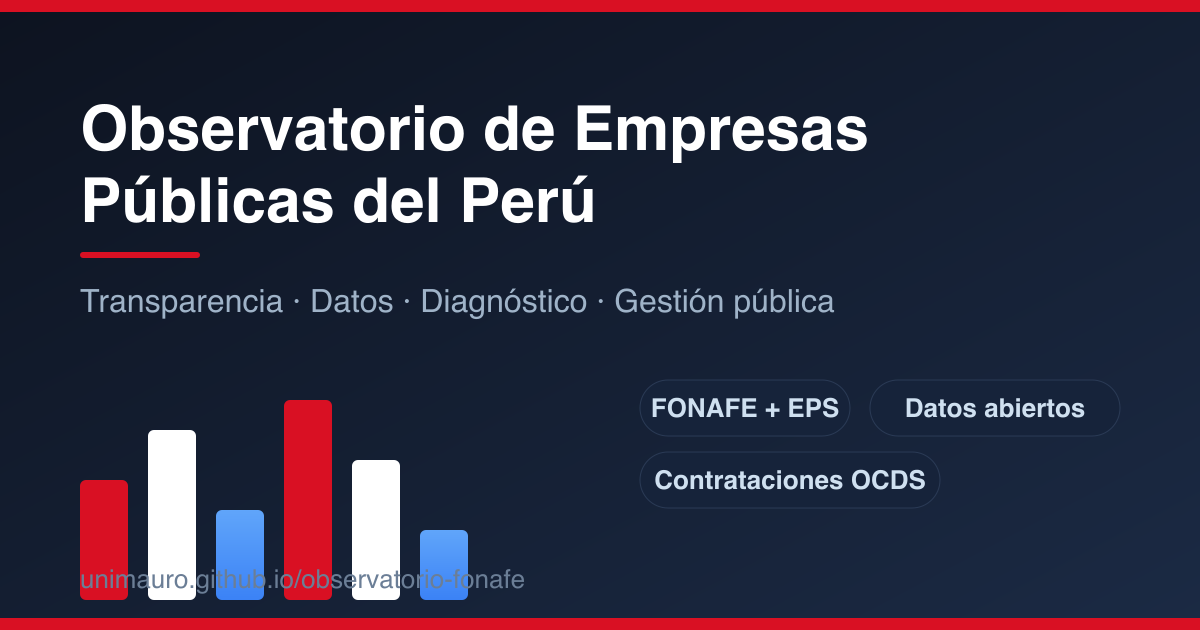
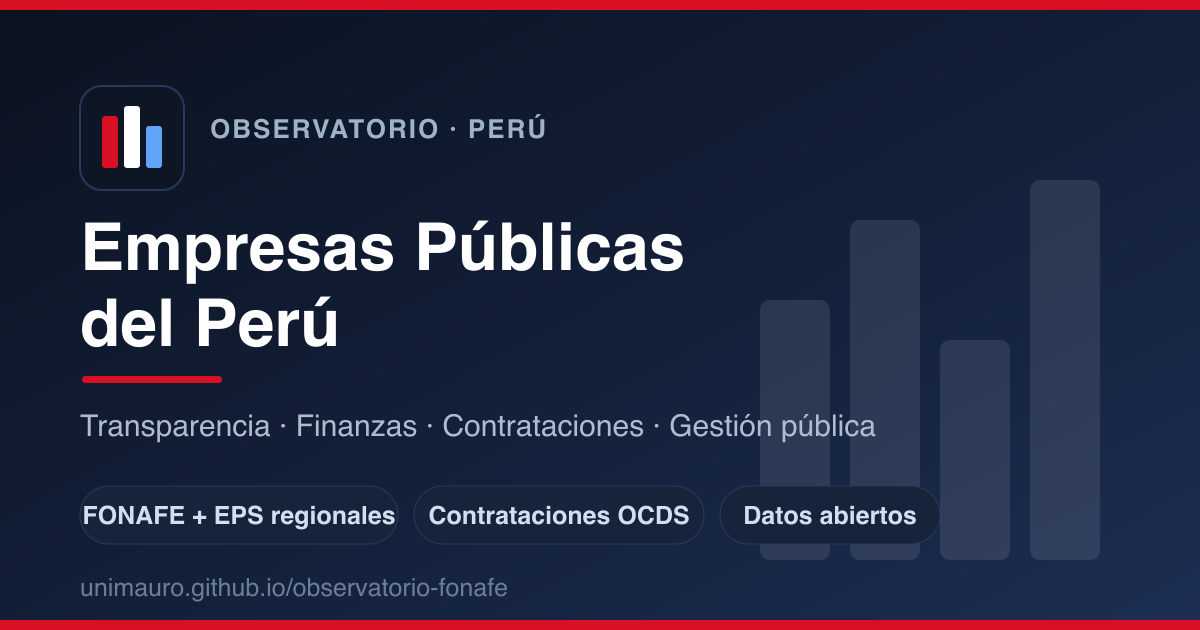
OG image más bonita + analítica real de contrataciones (por año/entidad)
- Rediseño del og.png para previews de WhatsApp/redes (logo, chips, barras)
- og:site_name, og:image:secure_url, og:image:alt para máxima compatibilidad
- Contrataciones: gráficos reales 'por año' y 'por entidad' desde datos OCDS

Changed region(s): [[0.0, 0.1206, 1.0, 0.9952], [0.0, 0.0, 1.0, 0.0302]]

diff --git a/frontend/src/pages/Contracts.tsx b/frontend/src/pages/Contracts.tsx
@@ -61,6 +61,39 @@ export function Contracts() {
         <CardContent><Chart option={providerOption} height={360} /></CardContent>
       </Card>
 
+      {data.contracts.isReal && data.contracts.byYear && data.contracts.byEntity && (
+        <div className="mb-6 grid gap-6 lg:grid-cols-2">
+          <Card>
+            <CardHeader><CardTitle>Contrataciones por año</CardTitle></CardHeader>
+            <CardContent>
+              <Chart height={300} option={{
+                tooltip: { trigger: 'axis' },
+                legend: { data: ['N° contratos', 'Monto S/ MM'], top: 0 },
+                grid: { left: 44, right: 50, top: 36, bottom: 24 },
+                xAxis: { type: 'category', data: data.contracts.byYear.map((y) => y.year) },
+                yAxis: [{ type: 'value', name: 'N°' }, { type: 'value', name: 'S/ MM' }],
+                series: [
+                  { name: 'N° contratos', type: 'bar', data: data.contracts.byYear.map((y) => y.count), itemStyle: { borderRadius: [4, 4, 0, 0] } },
+                  { name: 'Monto S/ MM', type: 'line', yAxisIndex: 1, smooth: true, data: data.contracts.byYear.map((y) => y.amount) },
+                ],
+              }} />
+            </CardContent>
+          </Card>
+          <Card>
+            <CardHeader><CardTitle>Entidades con más contrataciones</CardTitle></CardHeader>
+            <CardContent>
+              <Chart height={300} option={{
+                tooltip: { trigger: 'axis', axisPointer: { type: 'shadow' } },
+                grid: { left: 110, right: 20, top: 10, bottom: 24 },
+                xAxis: { type: 'value', name: 'N° contratos' },
+                yAxis: { type: 'category', data: data.contracts.byEntity.slice(0, 10).map((e) => e.name).reverse() },
+                series: [{ type: 'bar', data: data.contracts.byEntity.slice(0, 10).map((e) => e.count).reverse(), itemStyle: { borderRadius: [0, 4, 4, 0] } }],
+              }} />
+            </CardContent>
+          </Card>
+        </div>
+      )}
+
       <Card>
         <CardHeader className="flex-row flex-wrap items-center justify-between gap-3">
           <CardTitle>Contratos ({items.length})</CardTitle>

diff --git a/frontend/index.html b/frontend/index.html
@@ -14,13 +14,16 @@
 
     <meta name="robots" content="index, follow, max-image-preview:large" />
     <meta property="og:type" content="website" />
+    <meta property="og:site_name" content="Observatorio de Empresas Públicas del Perú" />
     <meta property="og:title" content="Observatorio de Empresas Públicas del Perú — FONAFE" />
     <meta property="og:description" content="Transparencia, datos y diagnóstico de las empresas estatales del Perú para mejorar la gestión pública. Datos abiertos." />
     <meta property="og:url" content="https://unimauro.github.io/observatorio-fonafe/" />
     <meta property="og:image" content="https://unimauro.github.io/observatorio-fonafe/og.png" />
+    <meta property="og:image:secure_url" content="https://unimauro.github.io/observatorio-fonafe/og.png" />
     <meta property="og:image:width" content="1200" />
     <meta property="og:image:height" content="630" />
     <meta property="og:image:type" content="image/png" />
+    <meta property="og:image:alt" content="Observatorio de Empresas Públicas del Perú — FONAFE" />
     <meta property="og:locale" content="es_PE" />
     <meta name="twitter:card" content="summary_large_image" />
     <meta name="twitter:title" content="Observatorio de Empresas Públicas del Perú — FONAFE" />

diff --git a/frontend/src/types.ts b/frontend/src/types.ts
@@ -96,6 +96,8 @@ export interface Contracts {
   items: Contract[]
   isReal?: boolean
   coverage?: string[]
+  byYear?: { year: number; count: number; amount: number }[]
+  byEntity?: { slug: string; name: string; count: number; amount: number }[]
 }
 export interface TransparencyItem {
   company: string; slug: string; score: number

diff --git a/etl/build_dataset.py b/etl/build_dataset.py
@@ -174,11 +174,31 @@ def build_real_contracts(real, name_by_slug):
         t["total"] = round(t["total"], 3)
     total = round(sum(i["amount"] for i in items), 2)
     coverage = sorted(set(i["companySlug"] for i in items))
+
+    # analítica real: por año y por entidad
+    by_year, by_entity = {}, {}
+    for i in items:
+        y = i.get("year")
+        if y:
+            by_year.setdefault(y, {"year": y, "count": 0, "amount": 0.0})
+            by_year[y]["count"] += 1
+            by_year[y]["amount"] += i["amount"]
+        s = i["companySlug"]
+        by_entity.setdefault(s, {"slug": s, "name": i["company"], "count": 0, "amount": 0.0})
+        by_entity[s]["count"] += 1
+        by_entity[s]["amount"] += i["amount"]
+    for v in by_year.values():
+        v["amount"] = round(v["amount"], 2)
+    for v in by_entity.values():
+        v["amount"] = round(v["amount"], 2)
+
     return dict(
         summary=dict(totalAmount=total, totalContracts=len(items),
                      topProviderShare=round(top[0]["total"] / total * 100, 1) if (total and top) else 0,
                      entitiesCovered=len(coverage)),
-        topProviders=top[:10], items=items, isReal=True, coverage=coverage)
+        topProviders=top[:10], items=items, isReal=True, coverage=coverage,
+        byYear=sorted(by_year.values(), key=lambda x: x["year"]),
+        byEntity=sorted(by_entity.values(), key=lambda x: x["count"], reverse=True))
 
 
 def main():
